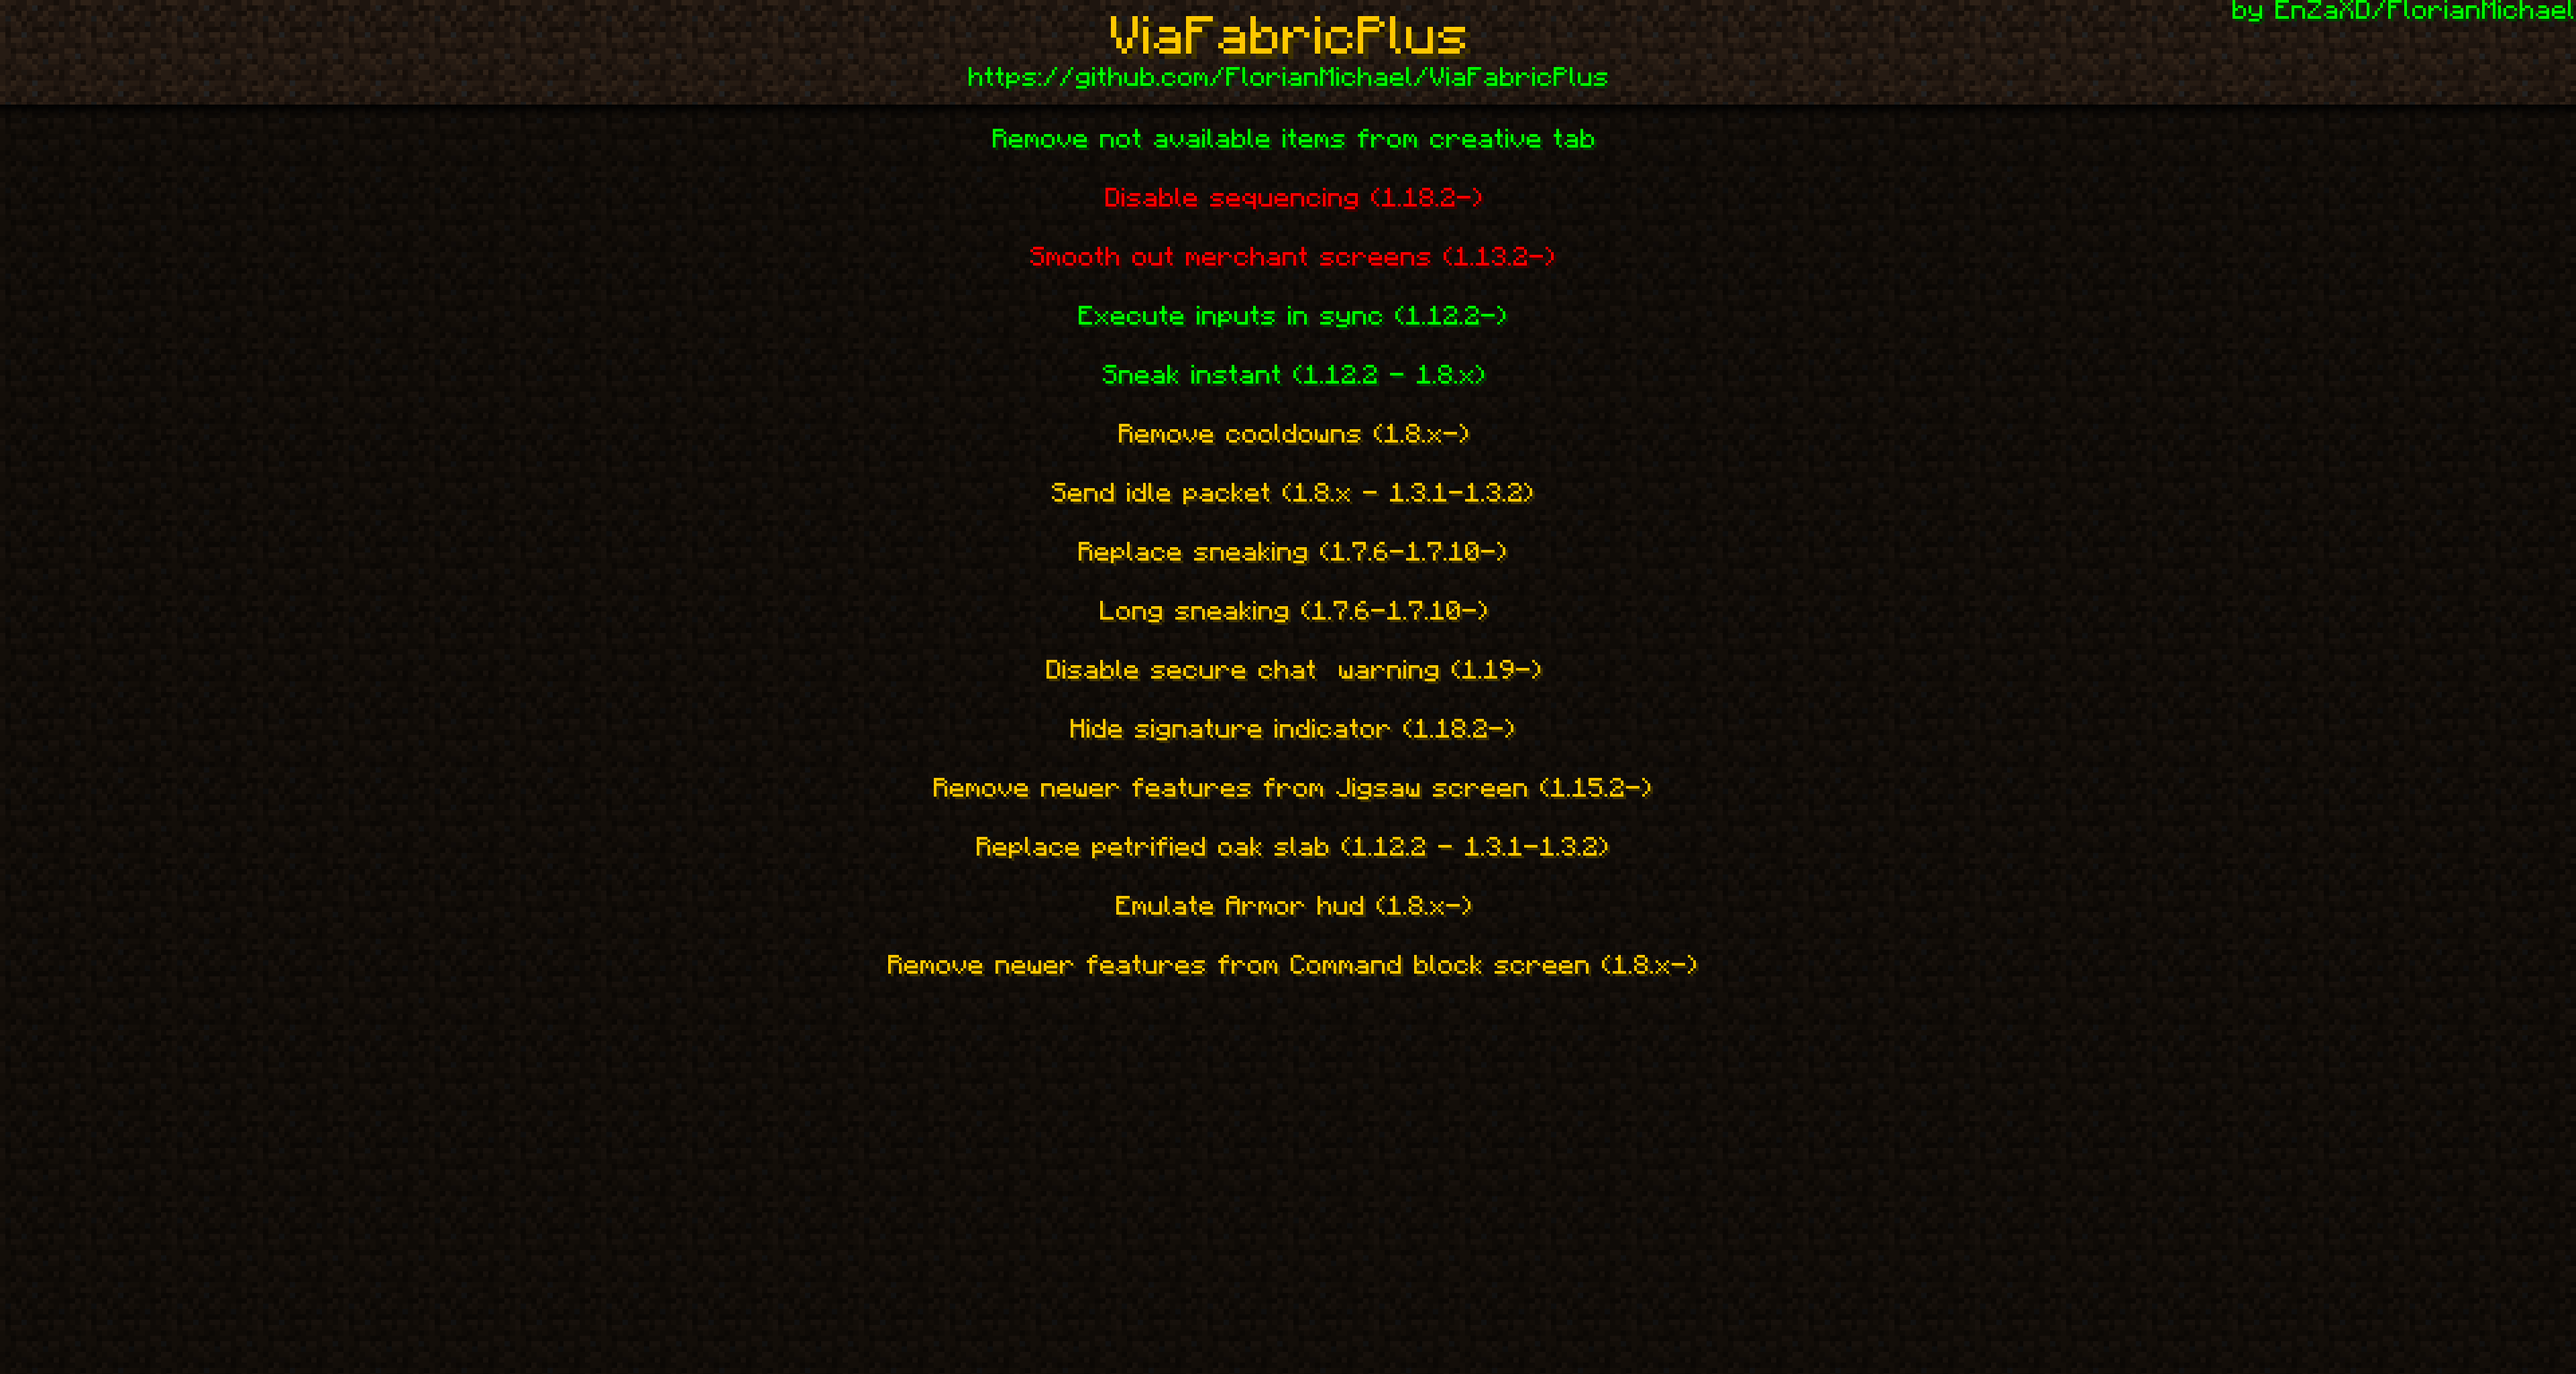
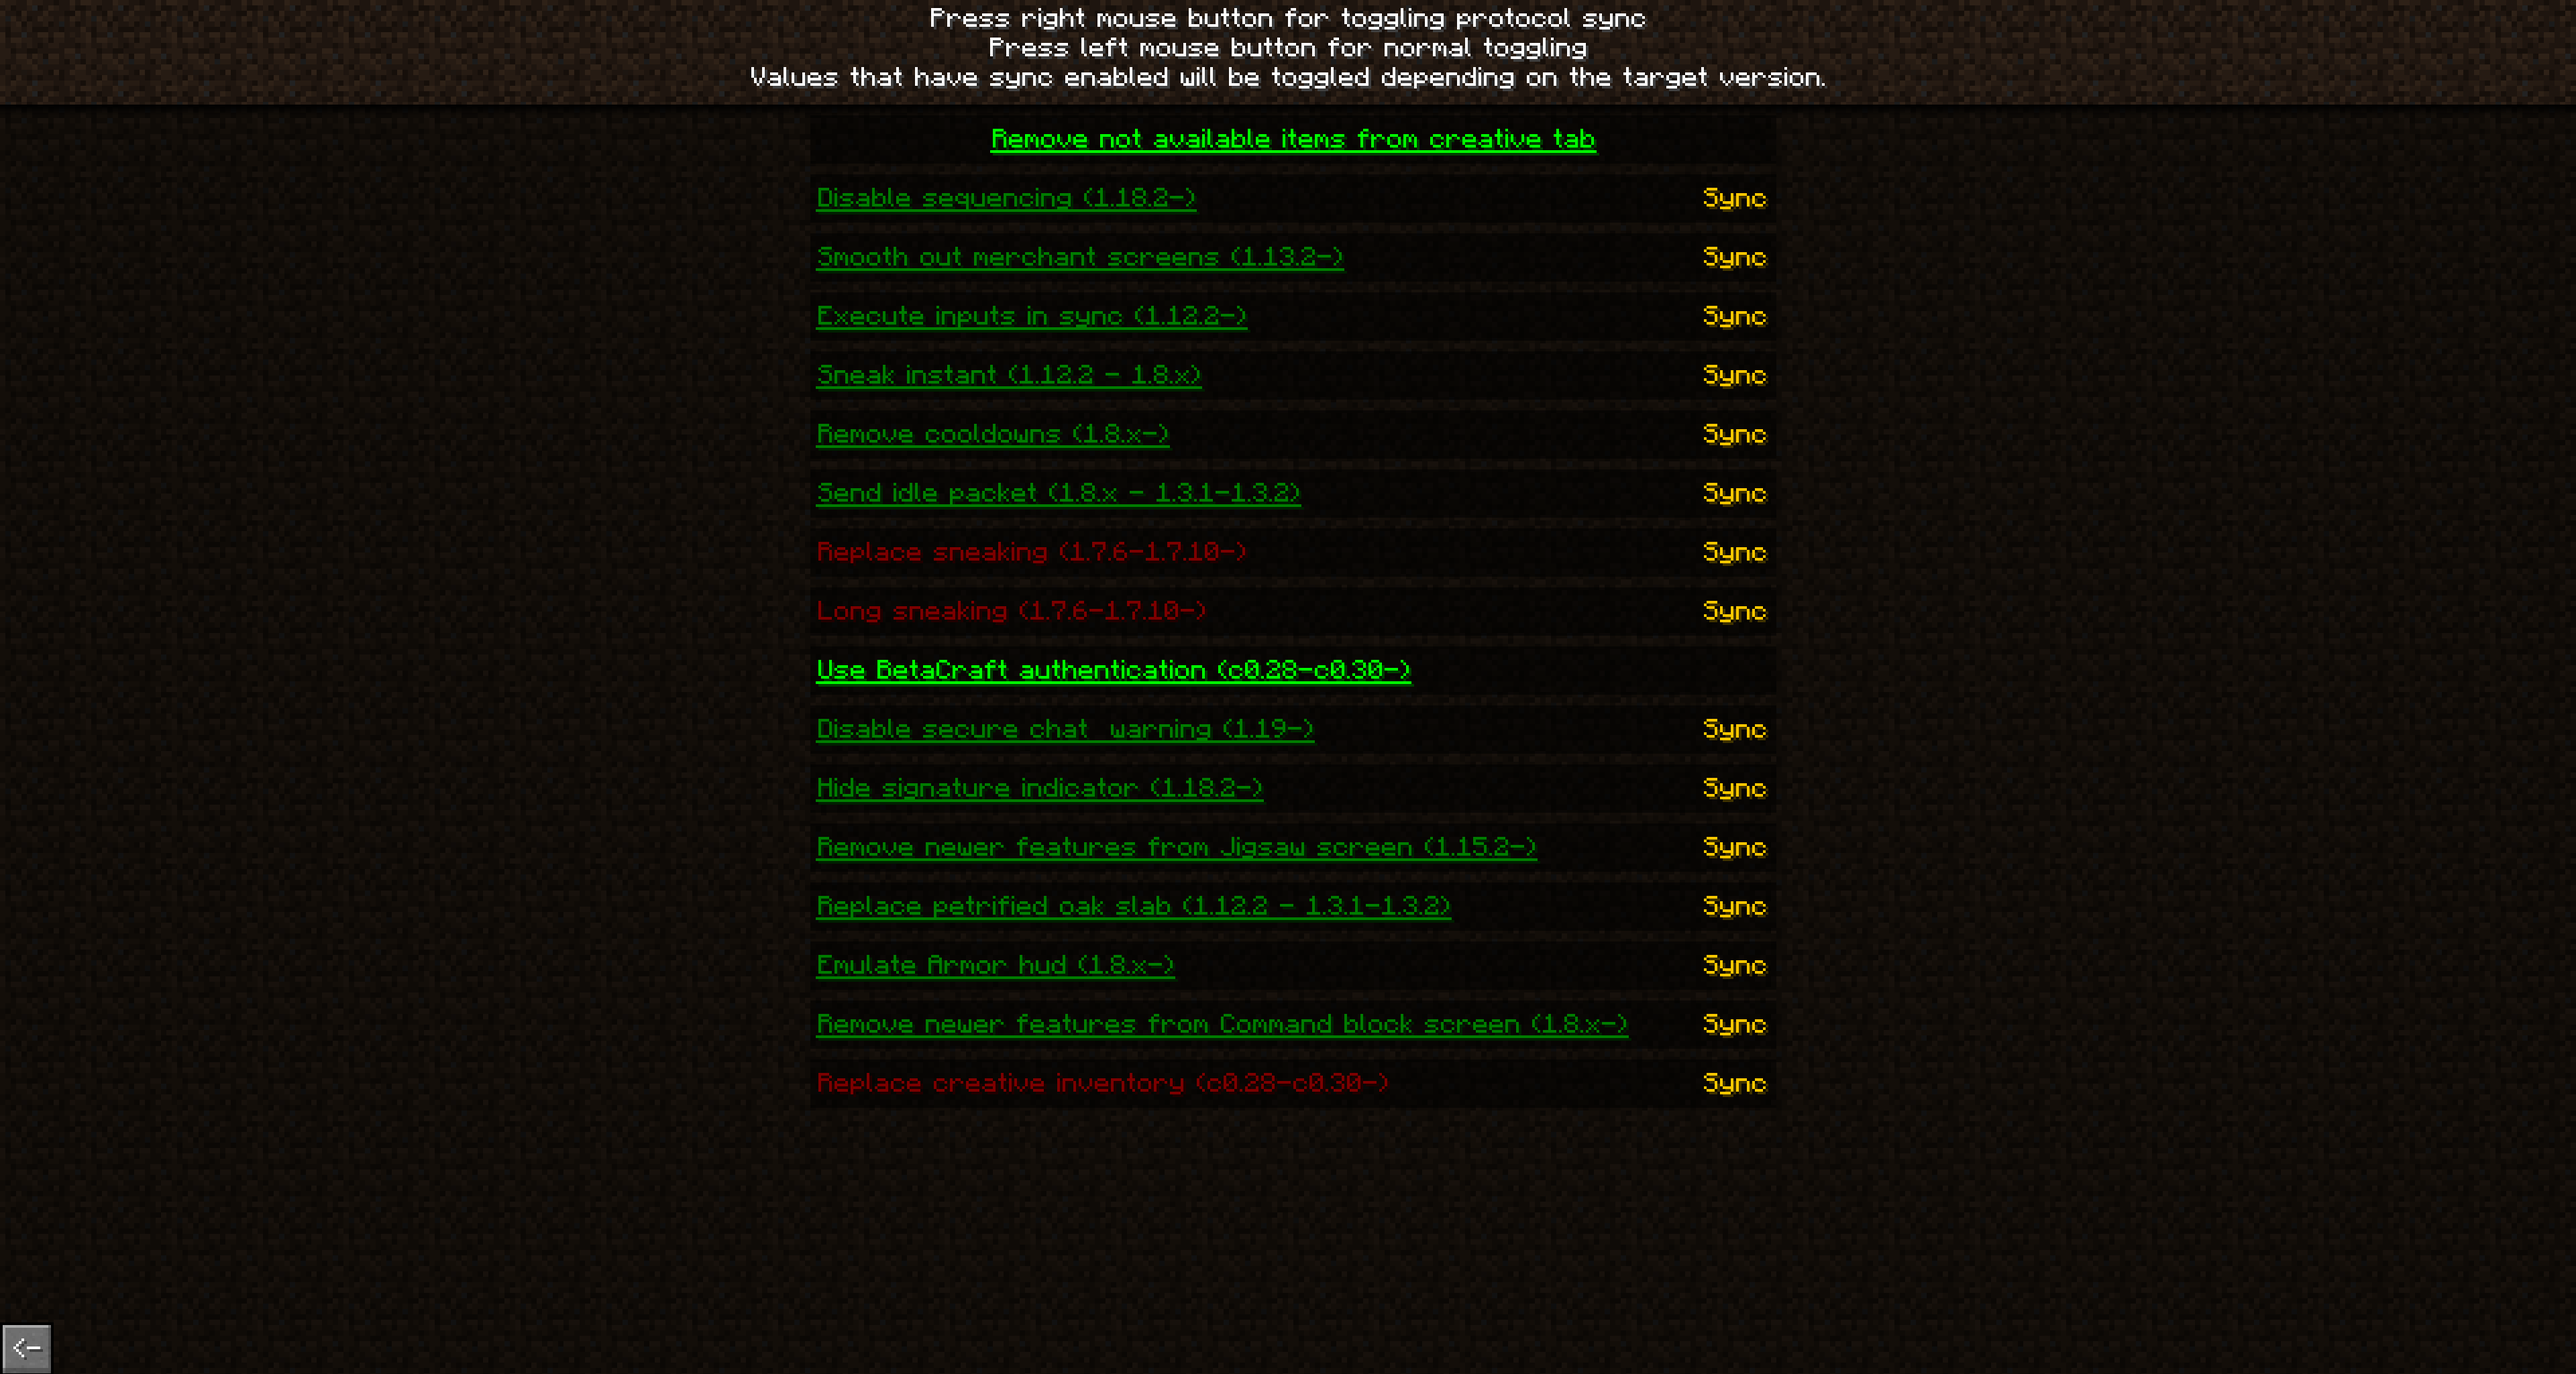
updated README

diff --git a/README.md b/README.md
@@ -1,10 +1,28 @@
 # ViaFabricPlus
 Clientside ViaVersion, ViaLegacy and ViaAprilFools implementation with clientside fixes for Fabric
+### This project has nothing to do with the original ViaFabric and is therefore also not compact
+
+## Contact
+If you encounter any issues, please report them on the
+[issue tracker](https://github.com/FlorianMichael/ViaFabricPlus/issues).  
+If you just want to talk or need help with ViaFabricPlus feel free to join my
+[Discord](https://discord.gg/BwWhCHUKDf).
 
 ## Why?
-Originally ViaFabricPlus was not a standalone project but a part of my Minecraft Utility Mod, <br>
-since this is no longer existent I am now developing the Protocol Translation part as a standalone mod, <br>
-and now: ViaFabricPlus is here
+ViaFabricPlus implements ViaLegacy/ViaAprilFools clientside and adds a ton of fixes that improve the game experience, <br>
+as does [MultiConnect](https://github.com/Earthcomputer/multiconnect) from Earthcomputer.
+
+## Dependencies
+
+| Dependency     | Download                                                   |
+|----------------|------------------------------------------------------------|
+| ViaVersion     | https://github.com/ViaVersion/ViaVersion                   |
+| ViaBackwards   | https://github.com/ViaVersion/ViaBackwards                 |
+| Snake YAML     | https://mvnrepository.com/artifact/org.yaml/snakeyaml/1.33 |
+| ViaLegacy      | https://github.com/RaphiMC/ViaLegacy                       |
+| ViaAprilFools  | https://github.com/RaphiMC/ViaAprilFools                   |
+| MC-Structs     | https://github.com/Lenni0451/MCStructs                     |
+| ViaLoadingBase | https://github.com/FlorianMichael/ViaLoadingBase           |
 
 ## Project structure
 ViaFabricPlus splits into two major parts:
@@ -14,12 +32,46 @@ ViaFabricPlus splits into two major parts:
 | ViaFabricPlus-Visual    | Addon for the core, it adds only visual changes between the versions like old textures, <br>optional and not necessary for the gameplay, but recommended.                                                                              |
 
 ## Values
-Values are optional settings that can turn fixes on and off, originally they were used for debugging, the Values GUI works like this: <br>
-Left mouse click activates/deactivates a Value, right mouse click activates a Sync Mode in which the Value is activated or deactivated depending on the version it belongs to.
+Values are optional settings that can turn fixes on and off, originally they were used for debugging<br>
 ![](/image/values.png)
 
-## Contact
-If you encounter any issues, please report them on the
-[issue tracker](https://github.com/FlorianMichael/ViaFabricPlus/issues).  
-If you just want to talk or need help with ViaFabricPlus feel free to join my
-[Discord](https://discord.gg/BwWhCHUKDf).
+## Addon-API
+For ViaFabricPlus-Visual and other future addons an AddonAPI has been developed to make it easier to access ViaFabricPlus, <br>
+to make a ViaFabricPlus addon you just have to implement the ViaFabricPlusAddon interface in your main class:
+```java
+package net.example;
+
+import de.florianmichael.viafabricplus.ViaFabricPlusAddon;
+
+public static class ViaFabricPlusExampleAddon implements ViaFabricPlusAddon {
+    
+    @Override
+    public void onPreLoad() {
+        // called directly after Via* is initialized
+    }
+    
+    @Override
+    public void onPostLoad() {
+        // called after Minecraft is initialized
+    }
+    
+    @Override
+    public void onChangeVersion(ComparableProtocolVersion protocolVersion) {
+        // called when the user changes the target version in the gui
+    }
+}
+```
+To load the addon you have to specify the addon main class as entrypoint in your *fabric.mod.json*:
+```json
+{
+  "entrypoints": {
+    "viafabricplus": [
+      "net.example.ViaFabricPlusExampleAddon"
+    ]
+  }
+}
+```
+
+## WARNING
+**I cannot guarantee that this mod is allowed on every (or even any) server. This mod may cause problems with anti cheat
+plugins. USE AT OWN RISK**
